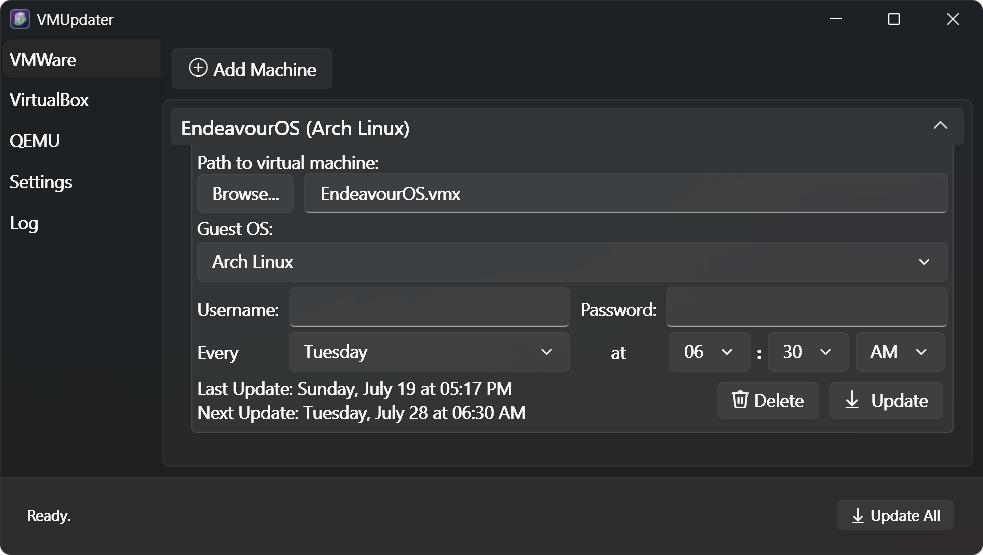
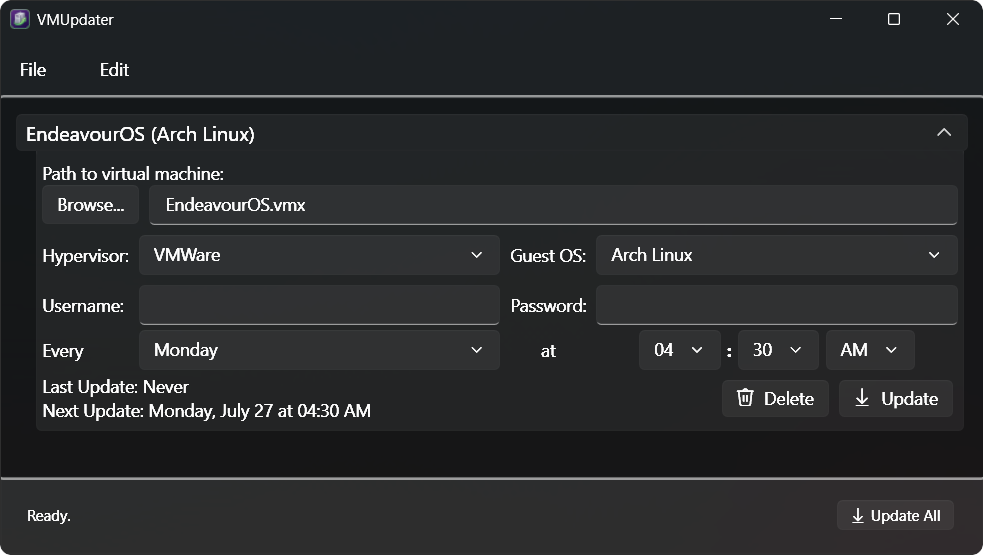
Add main window screenshot to README and repo
Added MainWindow.png to visually represent the application's main window. Updated README.md to reference the screenshot under the project title. Included the MainWindow.png binary file in the repository.

diff --git a/README.md b/README.md
@@ -2,6 +2,8 @@
 
 This branch is for implementing the ability to enter custom hypervisors via locating their respective hypervisor binary tool. 
 
+<img src="Screenshots/MainWindow.png" alt="Main Window" />
+
 ## Requirements
 
 - Windows 10/11
